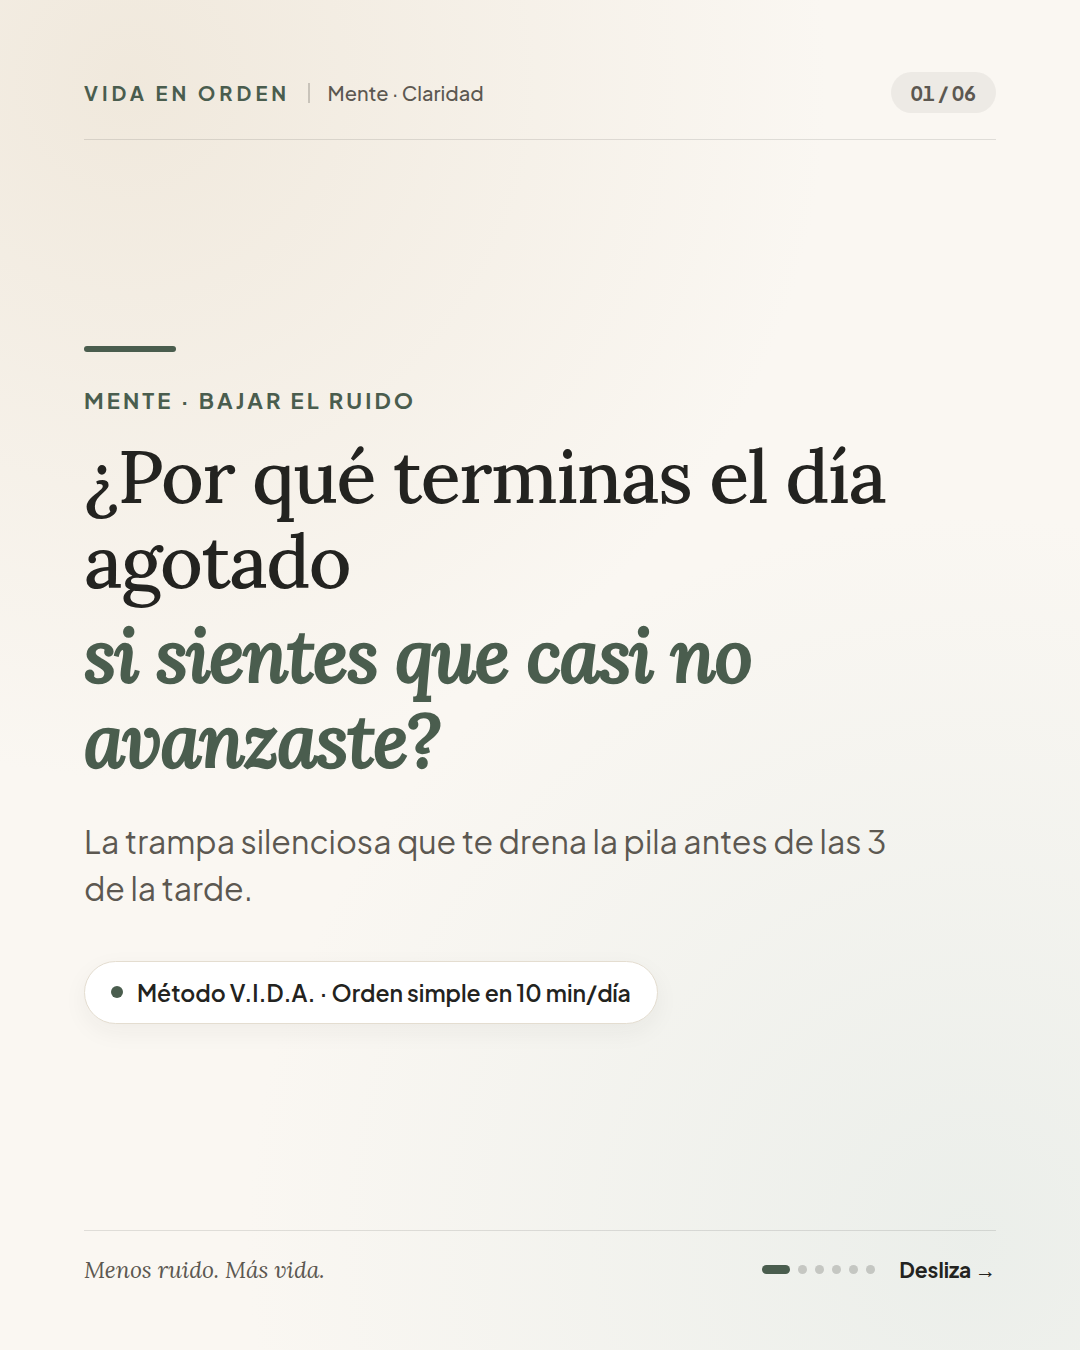
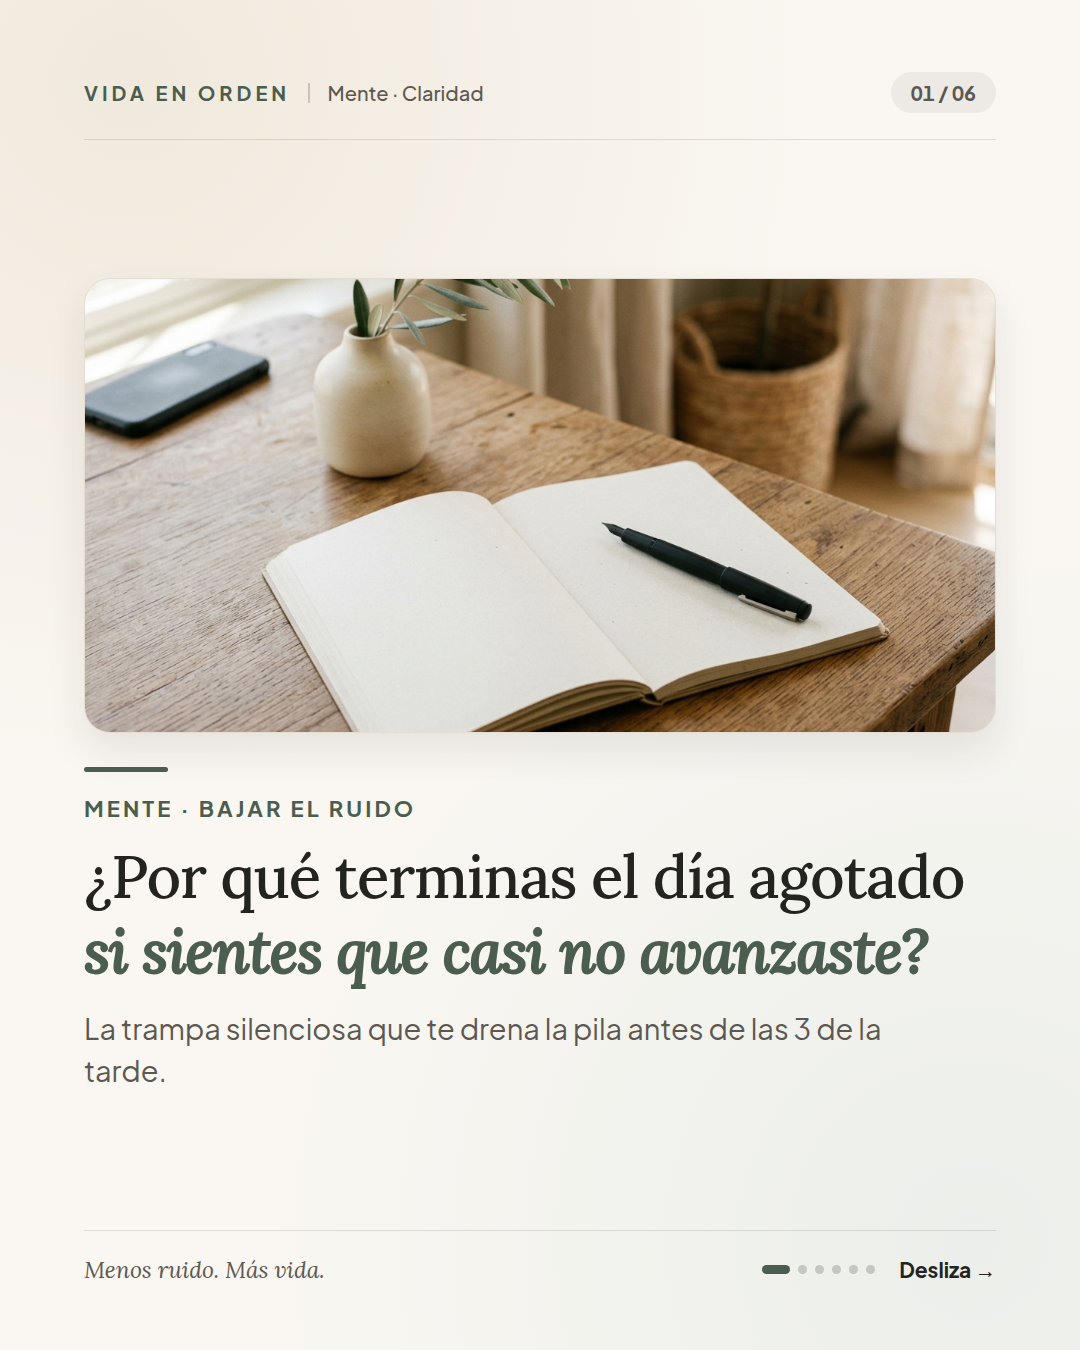
feat(marketing): integrar fotografía editorial minimalista en los 4 carruseles (24 slides PNG)

Changed region(s): [[0.0611, 0.1867, 0.9472, 0.8089]]

diff --git a/marketing/carruseles/index.html b/marketing/carruseles/index.html
@@ -288,7 +288,7 @@
       }
     }
 
-    fetch('./output/manifest.json?v=1')
+    fetch('./output/manifest.json?v=2')
       .then(r => r.json())
       .then(data => {
         root.innerHTML = '';
@@ -298,12 +298,12 @@
 
           const slidesHtml = c.slides.map((src, idx) => `
             <div class="slide-item">
-              <a href="${src}" target="_blank" rel="noopener">
-                <img src="${src}" alt="Carrusel ${c.numero} Slide ${idx + 1}" loading="lazy" />
+              <a href="${src}?v=2" target="_blank" rel="noopener">
+                <img src="${src}?v=2" alt="Carrusel ${c.numero} Slide ${idx + 1}" loading="lazy" />
               </a>
               <div class="slide-actions">
                 <span>Slide ${idx + 1} / ${c.slides.length}</span>
-                <a class="slide-dl" href="${src}" download="${c.id}-slide-0${idx + 1}.png">Guardar PNG</a>
+                <a class="slide-dl" href="${src}?v=2" download="${c.id}-slide-0${idx + 1}.png">Guardar PNG</a>
               </div>
             </div>
           `).join('');

diff --git a/marketing/carruseles/generar.py b/marketing/carruseles/generar.py
@@ -5,6 +5,7 @@ Genera diapositivas PNG 1080x1350 conectadas a marca/design-tokens.json.
 Funciona igual en Linux (nube) y macOS.
 """
 
+import base64
 import html
 import json
 import os
@@ -17,6 +18,25 @@ REPO_ROOT = BASE_DIR.parent.parent
 TOKENS_PATH = REPO_ROOT / "marca" / "design-tokens.json"
 DATA_PATH = BASE_DIR / "carruseles.json"
 OUT_DIR = BASE_DIR / "output"
+
+_IMG_CACHE = {}
+
+
+def load_data_uri(rel_path: str) -> str:
+    if not rel_path:
+        return ""
+    if rel_path in _IMG_CACHE:
+        return _IMG_CACHE[rel_path]
+    full = BASE_DIR / rel_path
+    if not full.exists():
+        return ""
+    ext = full.suffix.lower().lstrip(".")
+    mime = "image/jpeg" if ext in ("jpg", "jpeg") else f"image/{ext}"
+    b64 = base64.b64encode(full.read_bytes()).decode("ascii")
+    uri = f"data:{mime};base64,{b64}"
+    _IMG_CACHE[rel_path] = uri
+    return uri
+
 
 RADAR_SVG = """
 <svg viewBox="-50 0 460 310" width="420" height="283" xmlns="http://www.w3.org/2000/svg" aria-hidden="true">
@@ -48,22 +68,28 @@ def esc(text: str) -> str:
     return html.escape(str(text or ""))
 
 
-def render_body(slide: dict, accent: str) -> str:
+def render_body(slide: dict, carousel: dict, accent: str) -> str:
     stype = slide["type"]
 
     if stype == "cover":
+        img_uri = load_data_uri(slide.get("image") or carousel.get("coverImage", ""))
+        photo_html = f"""
+          <div class="cover-photo-frame">
+            <img src="{img_uri}" alt="" class="cover-photo" />
+          </div>
+        """ if img_uri else ""
+        cover_class = "cover-wrap has-photo" if img_uri else "cover-wrap"
         return f"""
-        <div class="cover-wrap">
-          <div class="accent-bar" style="background: {accent};"></div>
-          <p class="eyebrow" style="color: {accent};">{esc(slide['eyebrow'])}</p>
-          <h1 class="cover-title">
-            {esc(slide['headline'])}
-            <span class="cover-highlight" style="color: {accent};">{esc(slide['highlight'])}</span>
-          </h1>
-          <p class="cover-subtitle">{esc(slide['subtitle'])}</p>
-          <div class="cover-footer-chip">
-            <span class="chip-dot" style="background: {accent};"></span>
-            <span>Método V.I.D.A. · Orden simple en 10 min/día</span>
+        <div class="{cover_class}">
+          {photo_html}
+          <div class="cover-copy">
+            <div class="accent-bar" style="background: {accent};"></div>
+            <p class="eyebrow" style="color: {accent};">{esc(slide['eyebrow'])}</p>
+            <h1 class="cover-title">
+              {esc(slide['headline'])}
+              <span class="cover-highlight" style="color: {accent};">{esc(slide['highlight'])}</span>
+            </h1>
+            <p class="cover-subtitle">{esc(slide['subtitle'])}</p>
           </div>
         </div>
         """
@@ -89,10 +115,17 @@ def render_body(slide: dict, accent: str) -> str:
         """
 
     if stype == "concept":
+        img_uri = load_data_uri(slide.get("image") or carousel.get("conceptImage", ""))
+        strip_html = f"""
+          <div class="concept-photo-strip">
+            <img src="{img_uri}" alt="" />
+          </div>
+        """ if img_uri else ""
         return f"""
         <div class="content-wrap">
           <p class="eyebrow" style="color: {accent};">{esc(slide['eyebrow'])}</p>
-          <h2 class="slide-title">{esc(slide['headline'])}</h2>
+          <h2 class="slide-title concept-title">{esc(slide['headline'])}</h2>
+          {strip_html}
           <div class="paper-card concept-main">
             <p class="body-lg">{esc(slide['body'])}</p>
           </div>
@@ -166,9 +199,26 @@ def build_slide_html(tokens: dict, carousel: dict, slide: dict, idx: int, total:
         for i in range(total)
     )
     footer_right = "Guarda este post ↗" if idx == total - 1 else "Desliza →"
-    body_html = render_body(slide, accent)
+    body_html = render_body(slide, carousel, accent)
 
     bg_class = "theme-sage" if is_dark else ("theme-warm" if is_warm else "theme-paper")
+    quote_bg_uri = ""
+    if is_dark:
+        quote_bg_uri = load_data_uri("assets/bg-calma-sage.jpg")
+    elif is_warm:
+        quote_bg_uri = load_data_uri("assets/bg-pausa-warm.jpg")
+
+    quote_bg_style = ""
+    if is_dark and quote_bg_uri:
+        quote_bg_style = (
+            f"background-image: linear-gradient(155deg, rgba(44, 58, 47, 0.72) 0%, rgba(34, 46, 37, 0.86) 100%), "
+            f"url('{quote_bg_uri}'); background-size: cover; background-position: center;"
+        )
+    elif is_warm and quote_bg_uri:
+        quote_bg_style = (
+            f"background-image: linear-gradient(160deg, rgba(247, 241, 231, 0.78) 0%, rgba(238, 229, 214, 0.88) 100%), "
+            f"url('{quote_bg_uri}'); background-size: cover; background-position: center;"
+        )
 
     return f"""<!DOCTYPE html>
 <html lang="es">
@@ -352,52 +402,56 @@ def build_slide_html(tokens: dict, carousel: dict, slide: dict, idx: int, total:
       flex-direction: column;
       justify-content: center;
     }}
+    .cover-wrap.has-photo {{
+      justify-content: flex-start;
+      gap: 34px;
+    }}
+    .cover-photo-frame {{
+      width: 100%;
+      height: 455px;
+      border-radius: 26px;
+      overflow: hidden;
+      border: 1.5px solid {colors['border']};
+      box-shadow: 0 18px 40px rgba(35, 35, 32, 0.09);
+      background: {colors['bgMuted']};
+    }}
+    .cover-photo {{
+      width: 100%;
+      height: 100%;
+      object-fit: cover;
+      object-position: center;
+      display: block;
+    }}
+    .cover-copy {{
+      display: flex;
+      flex-direction: column;
+    }}
     .accent-bar {{
-      width: 92px;
-      height: 6px;
+      width: 84px;
+      height: 5px;
       border-radius: 999px;
-      margin-bottom: 34px;
+      margin-bottom: 22px;
     }}
     .cover-title {{
       font-family: {tokens['typography']['fontHeading']};
-      font-size: 74px;
+      font-size: 60px;
       font-weight: 500;
-      line-height: 1.14;
+      line-height: 1.15;
       letter-spacing: -0.02em;
       color: {colors['textPrimary']};
-      margin-bottom: 36px;
+      margin-bottom: 22px;
     }}
     .cover-highlight {{
       display: block;
-      margin-top: 10px;
+      margin-top: 6px;
       font-style: italic;
       font-weight: 600;
     }}
     .cover-subtitle {{
-      font-size: 32px;
-      line-height: 1.48;
+      font-size: 29px;
+      line-height: 1.44;
       color: {colors['textSecondary']};
-      max-width: 820px;
-      margin-bottom: 48px;
-    }}
-    .cover-footer-chip {{
-      display: inline-flex;
-      align-items: center;
-      gap: 14px;
-      align-self: flex-start;
-      background: #FFFFFF;
-      border: 1.5px solid {colors['border']};
-      padding: 16px 26px;
-      border-radius: 999px;
-      font-size: 23px;
-      font-weight: 600;
-      color: {colors['textPrimary']};
-      box-shadow: 0 8px 24px rgba(35, 35, 32, 0.05);
-    }}
-    .chip-dot {{
-      width: 12px;
-      height: 12px;
-      border-radius: 50%;
+      max-width: 860px;
     }}
 
     /* PAPER CARDS */
@@ -469,13 +523,33 @@ def build_slide_html(tokens: dict, carousel: dict, slide: dict, idx: int, total:
     }}
 
     /* CONCEPT */
+    .concept-title {{
+      margin-bottom: 26px;
+      font-size: 52px;
+    }}
+    .concept-photo-strip {{
+      width: 100%;
+      height: 220px;
+      border-radius: 22px;
+      overflow: hidden;
+      border: 1.5px solid {colors['border']};
+      margin-bottom: 24px;
+      box-shadow: 0 10px 26px rgba(35, 35, 32, 0.06);
+    }}
+    .concept-photo-strip img {{
+      width: 100%;
+      height: 100%;
+      object-fit: cover;
+      object-position: center 62%;
+      display: block;
+    }}
     .concept-main {{
-      margin-bottom: 30px;
-      padding: 44px 46px;
+      margin-bottom: 24px;
+      padding: 34px 40px;
     }}
     .body-lg {{
-      font-size: 34px;
-      line-height: 1.52;
+      font-size: 31px;
+      line-height: 1.48;
       color: {colors['textPrimary']};
     }}
     .callout-card {{
@@ -626,7 +700,7 @@ def build_slide_html(tokens: dict, carousel: dict, slide: dict, idx: int, total:
   </style>
 </head>
 <body>
-  <div class="canvas {bg_class}">
+  <div class="canvas {bg_class}" style="{quote_bg_style}">
     <header class="slide-top">
       <div class="brand-lockup">
         <span class="brand-name">{esc(tokens['brand']['name'])}</span>

diff --git a/marketing/README.md b/marketing/README.md
@@ -6,8 +6,9 @@ Diseñada para funcionar **igual en la nube (Linux) y localmente en tu Mac**, al
 
 ### 1. Máquina de Carruseles (`marketing/carruseles/`)
 - **Formato:** PNG 1080×1350 (Instagram y TikTok) y 1000×1500 (Pinterest).
-- **Flujo:** Guion en JSON/Markdown → Plantilla HTML/CSS conectada a `marca/design-tokens.json` → Exportación automática de todas las diapositivas en PNG (Playwright / Chromium headless).
-- **Ventaja:** Cero edición manual en Canva; si ajustamos tipografía o colores, todos los carruseles se actualizan al instante.
+- **Flujo:** Guion en `carruseles.json` + fotografías editoriales en `assets/` + tokens de `marca/design-tokens.json` → `python3 marketing/carruseles/generar.py` → Exportación automática de todas las diapositivas en PNG (Playwright / Chromium headless).
+- **Galería móvil (iPhone):** `marketing/carruseles/index.html` permite previsualizar, descargar los PNG 1080×1350 y copiar el texto + hashtags con un toque.
+- **Ventaja:** Cero edición manual en Canva; si ajustamos tipografía, fotos o colores, todos los carruseles se actualizan al instante.
 
 ### 2. Máquina de Reels *Faceless* (`marketing/reels/`)
 - **Formato:** MP4 vertical 1080×1920 (9:16), 20–35 segundos.
